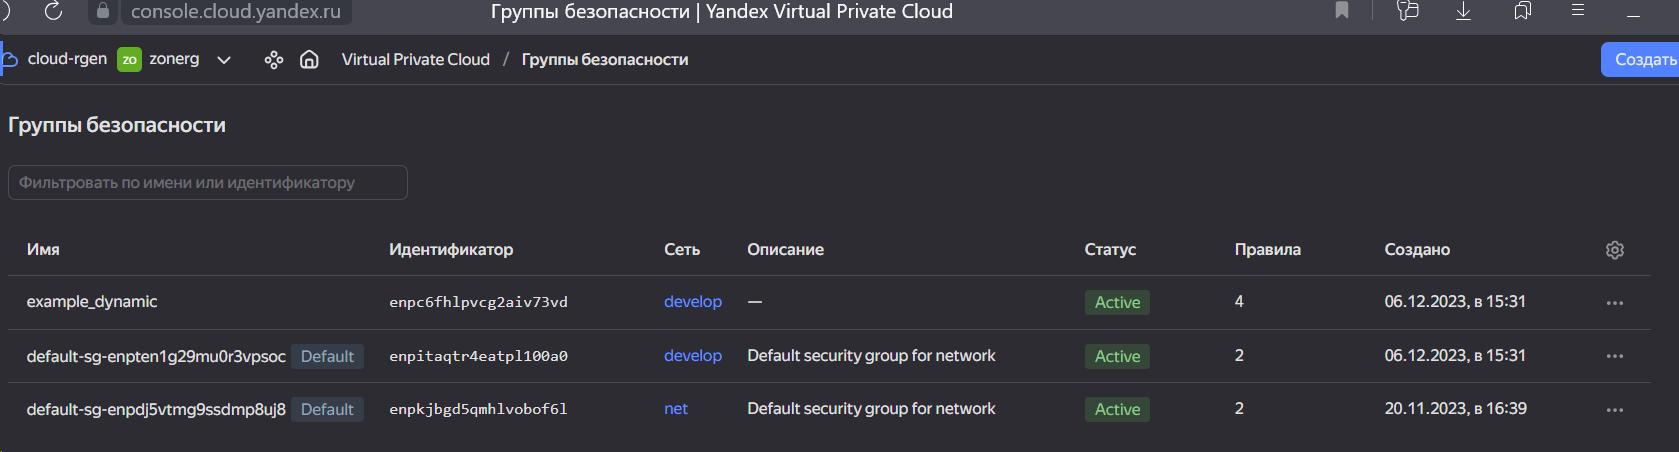
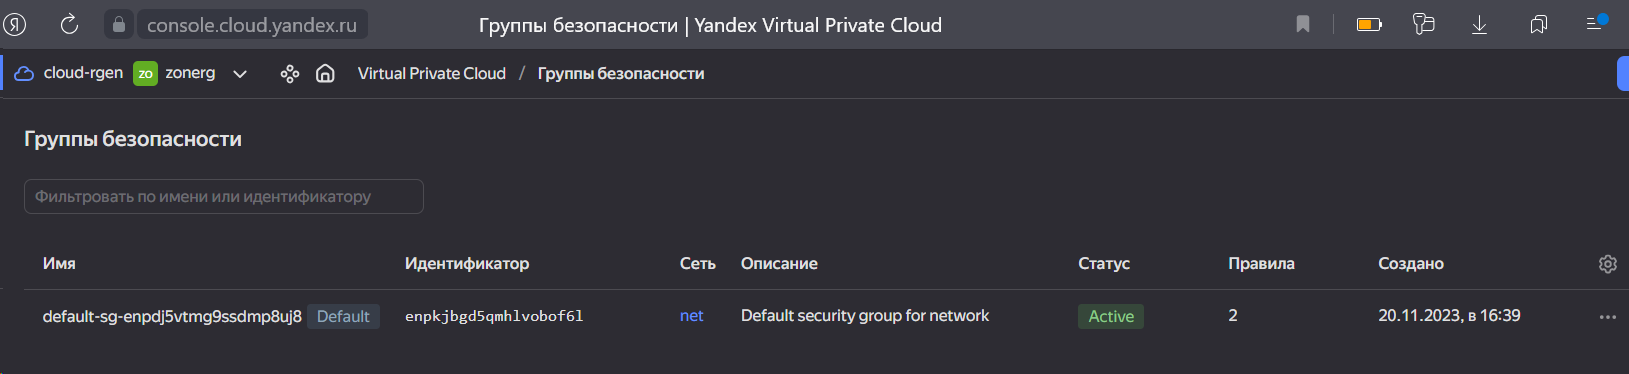
terr 1

diff --git a/Terra/Terr_3.md b/Terra/Terr_3.md
@@ -33,3 +33,16 @@ ubuntu@ubuntu2004:~/cloud$ ls -Ra 03
 
 * 2. Запросите preview-доступ к этому функционалу в личном кабинете Yandex Cloud. 
 [Урок02](https://github.com/R-Gennadi/devops-netology/blob/main/Terra/Terr_2.md "Ранее было представлено")
+
+
+## Задание 1
+Приложите скриншот входящих правил «Группы безопасности» в ЛК Yandex Cloud или скриншот отказа в предоставлении доступа к preview-версии.
+![img.png](Files_3/img.png)
+
+## Задание 2
+
+
+## Задание 3
+
+
+## Задание 4
